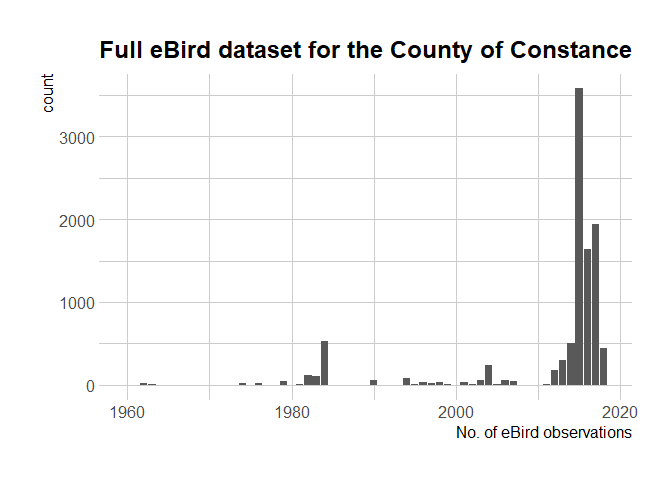
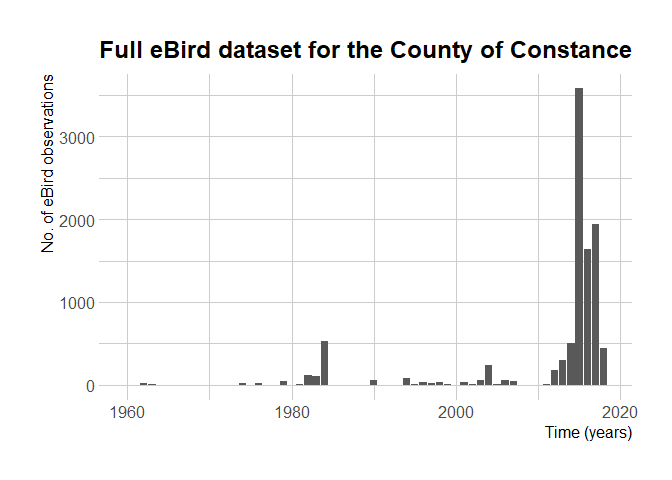
correct figure and improve text

Changed region(s): [[0.6562, 0.875, 0.9375, 0.9375], [0.0625, 0.1562, 0.0938, 0.5312]]

diff --git a/content/blog/2018-08-21-birds-radolfzell.md b/content/blog/2018-08-21-birds-radolfzell.md
@@ -400,7 +400,8 @@ ebd %>%
 ggplot() +
   geom_bar(aes(year))  +
   hrbrthemes::theme_ipsum(base_size = 12, axis_title_size = 12, axis_text_size = 12) +
-  xlab("No. of eBird observations") +
+  ylab("No. of eBird observations") +
+  xlab("Time (years)") +
   ggtitle("Full eBird dataset for the County of Constance")
 ```
 
@@ -484,14 +485,16 @@ County, California. Does the county of Constance have a super birder?
     ## 1 obsr457108   3551
 
 ``` r
-first_birder$n/nrow(ebd)
+(proportion <- round(first_birder$n/nrow(ebd),
+                    digits = 2))
 ```
 
-    ## [1] 0.3496455
+    ## [1] 0.35
 
-Wow! The EBD no longer provides names (consequence of the [EU General
-Data Protection Regulation](https://www.eugdpr.org/)) but from the
-checklist ID one can get access to the checklist page e.g [this
+Wow, that person made 35% of eBird observations in the county! The EBD
+no longer provides names (consequence of the [EU General Data Protection
+Regulation](https://www.eugdpr.org/)) but from the checklist ID one can
+get access to the checklist page e.g [this
 one](https://ebird.org/view/checklist/S42391392) where the name of the
 observer is present. The super birder of the County of Constance is
 [Antonio Anta Bink](https://ebird.org/profile/NDU3MTA4/DE).
